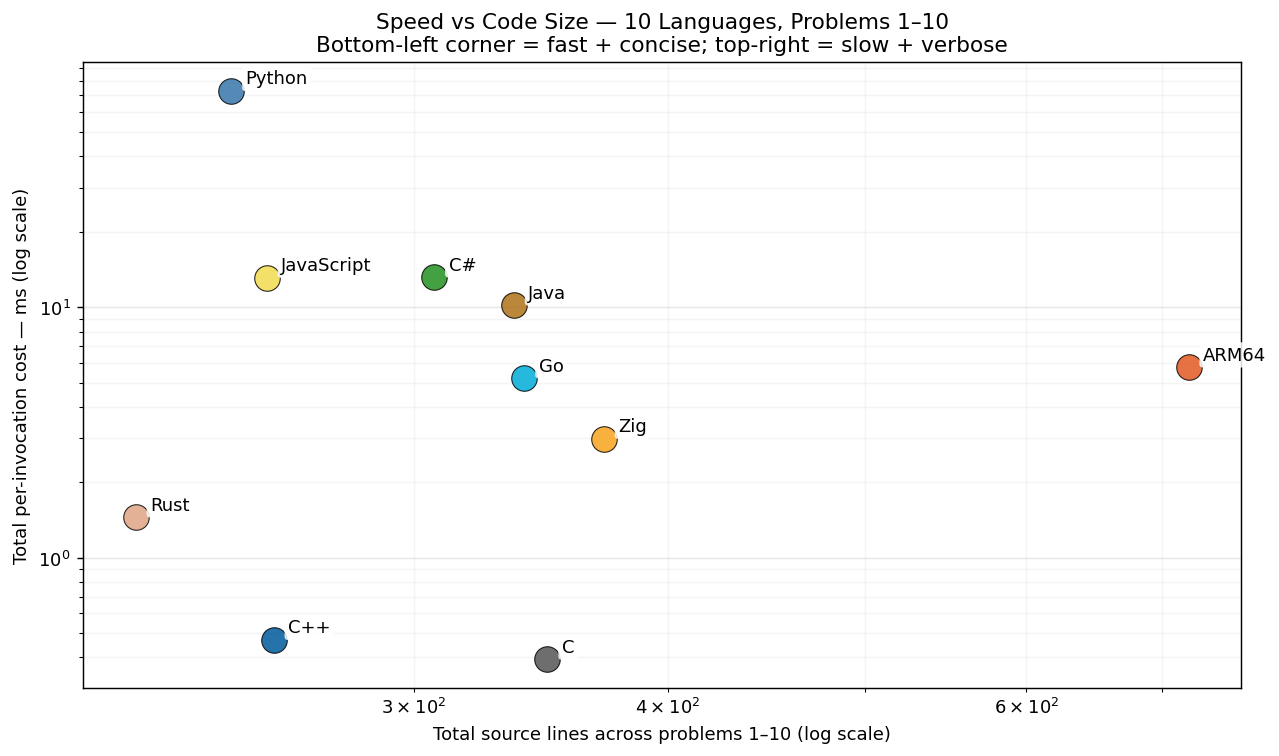
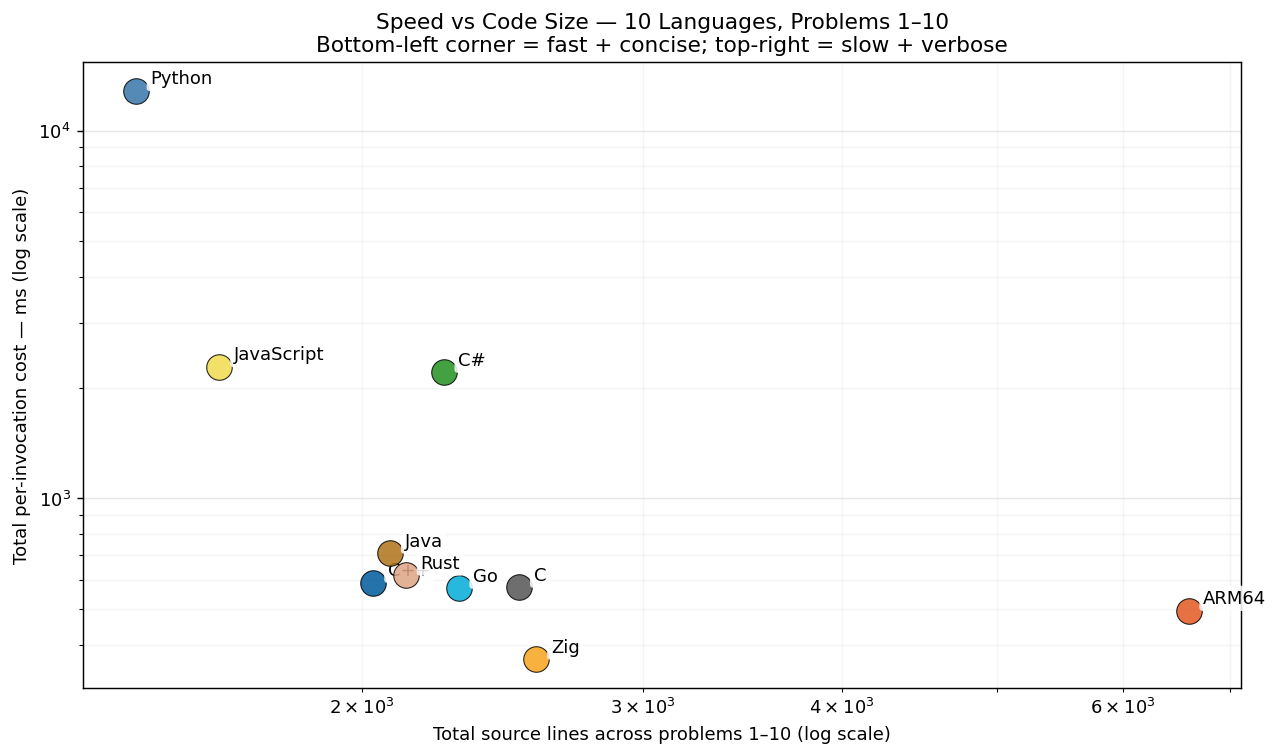
expand scope to 50×10 (500 measurements); report.py scope-aware text; 400 new cells benched clean (0 mismatches)

diff --git a/report.py b/report.py
@@ -37,7 +37,7 @@ CHARTS_DIR = REPO / "charts"
 
 # Scope: extend this list only after each new problem clears the
 # state-leak / answer-verification audit.
-SCOPE_PROBLEMS = [f"{i:03d}" for i in range(1, 11)]
+SCOPE_PROBLEMS = [f"{i:03d}" for i in range(1, 51)]
 
 # Languages in display order (preserved alphabetic-ish for stability)
 LANGS = ["arm64", "c", "cpp", "csharp", "go", "java", "javascript", "python", "rust", "zig"]
@@ -200,14 +200,14 @@ def render_speed_vs_size_chart(agg: dict) -> Path:
 
 
 def render_coverage_grid_chart(agg: dict) -> Path:
-    """10×10 cells colored by status + speed bucket.
+    """N_LANGS × N_PROBLEMS cells colored by status + speed bucket.
 
     🟩 pass (light → dark green by speed bucket)
     🟨 fail-warn (e.g. cold > 100 ms — still passing, but slow)
     🟥 fail (status != pass)
     ⬛ missing (no entry)
 
-    For our current 10×10 scope, everything should be green; the chart's
+    For the current in-scope cells, everything should be green; the chart's
     real value emerges as we extend to more problems and per-cell colors
     show heterogeneity.
     """
@@ -297,7 +297,7 @@ def render_total_chart(agg: dict) -> Path:
     ax.set_xscale("log")
     ax.set_xlabel("Total per-invocation cost across problems 1–10 (ms, log scale)")
     ax.set_title("Per-Invocation Cost — 10 Languages, Problems 1–10\n"
-                 f"Each binary run {10} times in a fresh process; median wall time summed across the 10 problems")
+                 f"Each binary run 10 times in a fresh process; median wall time summed across the {len(SCOPE_PROBLEMS)} problems")
     # Value labels at the end of each bar
     for i, (bar, ms) in enumerate(zip(bars, values_ms)):
         if ms >= 100:
@@ -336,16 +336,16 @@ def render_results_md(agg: dict) -> str:
     md.append("> measurement methodology.  See [JOURNEY.md](JOURNEY.md) for the full story of how")
     md.append("> we got here, including the reset from 200+ problems back to a verified 10×10 core.")
     md.append("")
-    md.append("## Per-Invocation Cost (Total, Problems 1–10)")
+    md.append(f"## Per-Invocation Cost (Total, Problems 1–{len(SCOPE_PROBLEMS)})")
     md.append("")
     md.append("We run each program 10 times in fresh OS processes (no warmup, no shared state).")
     md.append("Each invocation pays full startup + algorithm cost — the cost a real CLI / cron /")
     md.append("shell-loop user actually pays.  The median wall time across the 10 invocations is")
-    md.append("the headline per-problem number, and we sum across the 10 problems for the total.")
+    md.append(f"the headline per-problem number, and we sum across the {len(SCOPE_PROBLEMS)} problems for the total.")
     md.append("")
     md.append("![Per-Invocation Cost](charts/per_iter_total.png)")
     md.append("")
-    md.append("| Rank | Language | Total (10 problems) | Lines of code | vs Fastest |")
+    md.append(f"| Rank | Language | Total ({len(SCOPE_PROBLEMS)} problems) | Lines of code | vs Fastest |")
     md.append("|------|----------|--------------------:|--------------:|-----------:|")
     for i, (lang, total) in enumerate(ranked, 1):
         ratio = total / fastest_ns
@@ -354,7 +354,7 @@ def render_results_md(agg: dict) -> str:
     md.append("")
     md.append("## Speed vs Code Size")
     md.append("")
-    md.append("How much code does each language need to solve these 10 problems, and how")
+    md.append(f"How much code does each language need to solve these {len(SCOPE_PROBLEMS)} problems, and how")
     md.append("fast does that code run?  Bottom-left = fast and concise; top-right = slow")
     md.append("and verbose.  ARM64's outlier position (most lines) is expected — assembly")
     md.append("trades verbosity for direct hardware control.")
@@ -373,7 +373,7 @@ def render_results_md(agg: dict) -> str:
     md.append("")
     md.append("![Coverage + Speed Heatmap](charts/per_iter_coverage_grid.png)")
     md.append("")
-    md.append("Rows sorted fastest-to-slowest (top to bottom).  At our current 10×10 scope")
+    md.append(f"Rows sorted fastest-to-slowest (top to bottom).  At our current {len(SCOPE_PROBLEMS)}×{len(LANGS)} scope")
     md.append("every cell is green — that's exactly the audit gate we're holding to as we")
     md.append("extend to more problems.")
     md.append("")

diff --git a/RESULTS.md b/RESULTS.md
@@ -1,36 +1,36 @@
 # Project Euler — Cross-Language Benchmarks
 
-> **Currently: 10 problems × 10 languages = 100 measurements.**
+> **Currently: 50 problems × 10 languages = 500 measurements.**
 > Growing carefully — each new problem and language is audited for state-leak
 > safety, verified for answer correctness, and added only when it cleanly fits the
 > measurement methodology.  See [JOURNEY.md](JOURNEY.md) for the full story of how
 > we got here, including the reset from 200+ problems back to a verified 10×10 core.
 
-## Per-Invocation Cost (Total, Problems 1–10)
+## Per-Invocation Cost (Total, Problems 1–50)
 
 We run each program 10 times in fresh OS processes (no warmup, no shared state).
 Each invocation pays full startup + algorithm cost — the cost a real CLI / cron /
 shell-loop user actually pays.  The median wall time across the 10 invocations is
-the headline per-problem number, and we sum across the 10 problems for the total.
+the headline per-problem number, and we sum across the 50 problems for the total.
 
 ![Per-Invocation Cost](charts/per_iter_total.png)
 
-| Rank | Language | Total (10 problems) | Lines of code | vs Fastest |
+| Rank | Language | Total (50 problems) | Lines of code | vs Fastest |
 |------|----------|--------------------:|--------------:|-----------:|
-| 1 | **C** | 392.7 µs | 349 | 1.00× |
-| 2 | **C++** | 471.3 µs | 256 | 1.20× |
-| 3 | **Rust** | 1.45 ms | 219 | 3.70× |
-| 4 | **Zig** | 2.99 ms | 372 | 7.62× |
-| 5 | **Go** | 5.22 ms | 340 | 13.28× |
-| 6 | **ARM64** | 5.77 ms | 721 | 14.69× |
-| 7 | **Java** | 10.18 ms | 336 | 25.91× |
-| 8 | **JavaScript** | 13.14 ms | 254 | 33.47× |
-| 9 | **C#** | 13.18 ms | 307 | 33.57× |
-| 10 | **Python** | 73.09 ms | 244 | 186.13× |
+| 1 | **Zig** | 364.31 ms | 2,573 | 1.00× |
+| 2 | **ARM64** | 494.99 ms | 6,592 | 1.36× |
+| 3 | **Go** | 568.36 ms | 2,300 | 1.56× |
+| 4 | **C** | 572.02 ms | 2,510 | 1.57× |
+| 5 | **C++** | 589.86 ms | 2,034 | 1.62× |
+| 6 | **Rust** | 617.53 ms | 2,132 | 1.70× |
+| 7 | **Java** | 707.78 ms | 2,084 | 1.94× |
+| 8 | **C#** | 2.20 s | 2,251 | 6.04× |
+| 9 | **JavaScript** | 2.28 s | 1,629 | 6.25× |
+| 10 | **Python** | 12.83 s | 1,444 | 35.22× |
 
 ## Speed vs Code Size
 
-How much code does each language need to solve these 10 problems, and how
+How much code does each language need to solve these 50 problems, and how
 fast does that code run?  Bottom-left = fast and concise; top-right = slow
 and verbose.  ARM64's outlier position (most lines) is expected — assembly
 trades verbosity for direct hardware control.
@@ -49,7 +49,7 @@ invocation-isolation + answer-correctness audit and how fast it runs:
 
 ![Coverage + Speed Heatmap](charts/per_iter_coverage_grid.png)
 
-Rows sorted fastest-to-slowest (top to bottom).  At our current 10×10 scope
+Rows sorted fastest-to-slowest (top to bottom).  At our current 50×10 scope
 every cell is green — that's exactly the audit gate we're holding to as we
 extend to more problems.
 
@@ -58,18 +58,18 @@ extend to more problems.
 Median wall time per fresh-process invocation, for each (language, problem).  Rows
 are sorted by total (fastest language at top).
 
-| Language | p001 | p002 | p003 | p004 | p005 | p006 | p007 | p008 | p009 | p010 |
-|----------|----:|----:|----:|----:|----:|----:|----:|----:|----:|----:|
-| **C** | 41 ns | 41 ns | 583 ns | 3.2 µs | 416 ns | 42 ns | 29.9 µs | 2.7 µs | 250 ns | 355.6 µs |
-| **C++** | 166 ns | 167 ns | 34.7 µs | 32.0 µs | 542 ns | 42 ns | 24.4 µs | 3.0 µs | 334 ns | 375.9 µs |
-| **Rust** | 42 ns | 83 ns | 94.8 µs | 17.8 µs | 583 ns | 42 ns | 245.7 µs | 10.6 µs | 291 ns | 1.08 ms |
-| **Zig** | 42 ns | 42 ns | 708 ns | 3.8 µs | 417 ns | 42 ns | 219.1 µs | 1.6 µs | 250 ns | 2.77 ms |
-| **Go** | 1.5 µs | 1.4 µs | 2.1 µs | 4.8 µs | 1.8 µs | 1.8 µs | 477.5 µs | 5.7 µs | 1.8 µs | 4.72 ms |
-| **ARM64** | 0 ns | 0 ns | 1.0 µs | 3.0 µs | 1.0 µs | 0 ns | 306.0 µs | 4.0 µs | 1.0 µs | 5.45 ms |
-| **Java** | 2.5 µs | 2.8 µs | 8.0 µs | 307.3 µs | 5.5 µs | 1.9 µs | 1.62 ms | 55.0 µs | 6.0 µs | 8.17 ms |
-| **JavaScript** | 19.0 µs | 12.1 µs | 49.2 µs | 96.8 µs | 29.0 µs | 7.1 µs | 2.69 ms | 99.4 µs | 27.0 µs | 10.11 ms |
-| **C#** | 54.8 µs | 64.0 µs | 80.6 µs | 136.5 µs | 1.70 ms | 27.1 µs | 696.7 µs | 179.2 µs | 521.2 µs | 9.73 ms |
-| **Python** | 1.6 µs | 3.0 µs | 5.59 ms | 55.36 ms | 4.5 µs | 916 ns | 1.38 ms | 852.1 µs | 4.64 ms | 5.27 ms |
+| Language | p001 | p002 | p003 | p004 | p005 | p006 | p007 | p008 | p009 | p010 | p011 | p012 | p013 | p014 | p015 | p016 | p017 | p018 | p019 | p020 | p021 | p022 | p023 | p024 | p025 | p026 | p027 | p028 | p029 | p030 | p031 | p032 | p033 | p034 | p035 | p036 | p037 | p038 | p039 | p040 | p041 | p042 | p043 | p044 | p045 | p046 | p047 | p048 | p049 | p050 |
+|----------|----:|----:|----:|----:|----:|----:|----:|----:|----:|----:|----:|----:|----:|----:|----:|----:|----:|----:|----:|----:|----:|----:|----:|----:|----:|----:|----:|----:|----:|----:|----:|----:|----:|----:|----:|----:|----:|----:|----:|----:|----:|----:|----:|----:|----:|----:|----:|----:|----:|----:|
+| **Zig** | 42 ns | 42 ns | 708 ns | 3.8 µs | 417 ns | 42 ns | 219.1 µs | 1.6 µs | 250 ns | 2.77 ms | 2.4 µs | 36.96 ms | 42 ns | 133.78 ms | 42 ns | 477.2 µs | 2.2 µs | 42 ns | 4.7 µs | 31.9 µs | 1.52 ms | 1.03 ms | 8.56 ms | 292 ns | 6.85 ms | 652.8 µs | 6.08 ms | 41 ns | 68.32 ms | 1.50 ms | 1.0 µs | 1.16 ms | 2.0 µs | 9.92 ms | 2.32 ms | 4.94 ms | 1.95 ms | 215.1 µs | 104.6 µs | 291 ns | 8.55 ms | 227.1 µs | 11.18 ms | 36.45 ms | 44.6 µs | 3.98 ms | 8.36 ms | 104.0 µs | 2.58 ms | 3.45 ms |
+| **ARM64** | 0 ns | 0 ns | 1.0 µs | 3.0 µs | 1.0 µs | 0 ns | 306.0 µs | 4.0 µs | 1.0 µs | 5.45 ms | 3.0 µs | 63.87 ms | 2.0 µs | 179.55 ms | 0 ns | 476.0 µs | 3.0 µs | 1.0 µs | 7.0 µs | 16.0 µs | 2.39 ms | 1.33 ms | 11.22 ms | 0 ns | 7.45 ms | 1.04 ms | 8.46 ms | 1.0 µs | 55.46 ms | 1.81 ms | 2.0 µs | 1.48 ms | 15.0 µs | 11.43 ms | 3.64 ms | 5.66 ms | 3.27 ms | 207.0 µs | 2.36 ms | 1.33 ms | 8.49 ms | 27.0 µs | 15.84 ms | 84.68 ms | 77.0 µs | 4.84 ms | 7.82 ms | 132.0 µs | 1.22 ms | 3.61 ms |
+| **Go** | 1.5 µs | 1.4 µs | 2.1 µs | 4.8 µs | 1.8 µs | 1.8 µs | 477.5 µs | 5.7 µs | 1.8 µs | 4.72 ms | 3.1 µs | 38.66 ms | 68.1 µs | 165.81 ms | 1.5 µs | 585.0 µs | 5.5 µs | 2.2 µs | 6.7 µs | 20.0 µs | 1.58 ms | 728.2 µs | 10.14 ms | 1.9 µs | 122.9 µs | 1.57 ms | 6.02 ms | 1.9 µs | 7.71 ms | 2.15 ms | 6.0 µs | 17.42 ms | 11.1 µs | 13.63 ms | 4.20 ms | 42.22 ms | 2.64 ms | 1.04 ms | 118.7 µs | 4.29 ms | 11.13 ms | 291.2 µs | 20.58 ms | 166.18 ms | 52.3 µs | 4.08 ms | 5.98 ms | 416.7 µs | 28.41 ms | 5.28 ms |
+| **C** | 41 ns | 41 ns | 583 ns | 3.2 µs | 416 ns | 42 ns | 29.9 µs | 2.7 µs | 250 ns | 355.6 µs | 1.5 µs | 37.21 ms | 42 ns | 134.92 ms | 42 ns | 491.2 µs | 2.2 µs | 250 ns | 5.0 µs | 26.2 µs | 1.52 ms | 1.58 ms | 8.58 ms | 167 ns | 6.46 ms | 612.9 µs | 7.44 ms | 42 ns | 74.48 ms | 1.41 ms | 708 ns | 12.59 ms | 8.2 µs | 9.68 ms | 3.10 ms | 54.81 ms | 2.57 ms | 1.94 ms | 106.7 µs | 9.34 ms | 7.78 ms | 308.6 µs | 10.36 ms | 50.25 ms | 48.7 µs | 3.97 ms | 6.95 ms | 146.5 µs | 119.30 ms | 3.63 ms |
+| **C++** | 166 ns | 167 ns | 34.7 µs | 32.0 µs | 542 ns | 42 ns | 24.4 µs | 3.0 µs | 334 ns | 375.9 µs | 500 ns | 36.75 ms | 19.7 µs | 161.03 ms | 167 ns | 626.8 µs | 2.5 µs | 292 ns | 4.3 µs | 27.6 µs | 1.51 ms | 1.28 ms | 29.33 ms | 625 ns | 5.88 ms | 733.4 µs | 9.73 ms | 83 ns | 76.41 ms | 1.41 ms | 708 ns | 7.46 ms | 8.2 µs | 9.62 ms | 5.55 ms | 63.08 ms | 3.69 ms | 559.8 µs | 104.5 µs | 3.78 ms | 17.54 ms | 315.7 µs | 9.92 ms | 40.85 ms | 49.2 µs | 3.76 ms | 93.61 ms | 125.4 µs | 213.0 µs | 4.41 ms |
+| **Rust** | 42 ns | 83 ns | 94.8 µs | 17.8 µs | 583 ns | 42 ns | 245.7 µs | 10.6 µs | 291 ns | 1.08 ms | 42 ns | 38.03 ms | 39.4 µs | 185.77 ms | 42 ns | 57.9 µs | 2.0 µs | 250 ns | 4.8 µs | 23.4 µs | 1.82 ms | 711.1 µs | 92.96 ms | 708 ns | 7.09 ms | 5.66 ms | 7.85 ms | 875 ns | 63.20 ms | 2.37 ms | 2.2 µs | 13.35 ms | 7.7 µs | 9.10 ms | 28.86 ms | 79.01 ms | 2.73 ms | 1.70 ms | 88.4 µs | 7.56 ms | 7.61 ms | 119.6 µs | 10.76 ms | 15.65 ms | 48.2 µs | 5.56 ms | 7.00 ms | 169.5 µs | 18.53 ms | 2.66 ms |
+| **Java** | 2.5 µs | 2.8 µs | 8.0 µs | 307.3 µs | 5.5 µs | 1.9 µs | 1.62 ms | 55.0 µs | 6.0 µs | 8.17 ms | 65.7 µs | 45.18 ms | 1.99 ms | 214.97 ms | 2.1 µs | 962.7 µs | 76.8 µs | 21.2 µs | 181.6 µs | 879.7 µs | 2.15 ms | 14.19 ms | 14.66 ms | 4.7 µs | 84.61 ms | 1.91 ms | 14.54 ms | 14.1 µs | 6.64 ms | 4.19 ms | 18.6 µs | 26.50 ms | 116.0 µs | 25.63 ms | 11.10 ms | 38.47 ms | 9.93 ms | 3.82 ms | 2.68 ms | 5.75 ms | 18.79 ms | 8.88 ms | 27.42 ms | 40.33 ms | 1.30 ms | 6.82 ms | 12.43 ms | 15.88 ms | 21.23 ms | 13.25 ms |
+| **C#** | 54.8 µs | 64.0 µs | 80.6 µs | 136.5 µs | 1.70 ms | 27.1 µs | 696.7 µs | 179.2 µs | 521.2 µs | 9.73 ms | 662.8 µs | 110.22 ms | 466.1 µs | 552.02 ms | 58.2 µs | 2.48 ms | 12.38 ms | 3.84 ms | 299.4 µs | 2.76 ms | 168.50 ms | 23.76 ms | 8.49 ms | 416.85 ms | 4.58 ms | 1.91 ms | 118.17 ms | 3.29 ms | 23.68 ms | 3.19 ms | 223.2 µs | 9.54 ms | 248.2 µs | 19.98 ms | 176.76 ms | 13.36 ms | 7.29 ms | 21.05 ms | 708.8 µs | 6.24 ms | 24.75 ms | 16.80 ms | 255.46 ms | 129.27 ms | 407.0 µs | 7.93 ms | 10.89 ms | 671.1 µs | 18.55 ms | 7.94 ms |
+| **JavaScript** | 19.0 µs | 12.1 µs | 49.2 µs | 96.8 µs | 29.0 µs | 7.1 µs | 2.69 ms | 99.4 µs | 27.0 µs | 10.11 ms | 148.0 µs | 71.66 ms | 42.8 µs | 1.82 s | 12.2 µs | 42.6 µs | 172.9 µs | 41.0 µs | 127.3 µs | 41.6 µs | 2.49 ms | 1.53 ms | 16.19 ms | 37.3 µs | 486.8 µs | 1.26 ms | 13.49 ms | 24.8 µs | 5.25 ms | 6.00 ms | 67.3 µs | 9.54 ms | 236.8 µs | 34.33 ms | 8.88 ms | 65.25 ms | 7.28 ms | 1.54 ms | 1.45 ms | 10.21 ms | 14.54 ms | 938.0 µs | 35.42 ms | 56.05 ms | 707.2 µs | 9.81 ms | 11.36 ms | 1.16 ms | 47.98 ms | 10.45 ms |
+| **Python** | 1.6 µs | 3.0 µs | 5.59 ms | 55.36 ms | 4.5 µs | 916 ns | 1.38 ms | 852.1 µs | 4.64 ms | 5.27 ms | 223.6 µs | 1.53 s | 4.3 µs | 6.11 s | 2.0 µs | 25.8 µs | 168.9 µs | 17.6 µs | 142.3 µs | 16.0 µs | 25.56 ms | 3.72 ms | 578.16 ms | 10.2 µs | 22.43 ms | 7.59 ms | 406.94 ms | 34.9 µs | 2.64 ms | 215.86 ms | 49.7 µs | 42.23 ms | 351.5 µs | 1.77 s | 100.18 ms | 146.76 ms | 75.41 ms | 4.04 ms | 8.87 ms | 17.55 ms | 61.0 µs | 1.12 ms | 921.46 ms | 161.44 ms | 3.60 ms | 20.36 ms | 395.76 ms | 642.8 µs | 77.64 ms | 109.16 ms |
 
 ## Method
 
